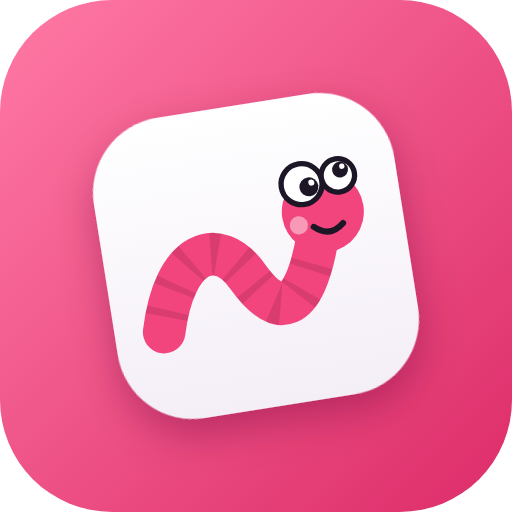
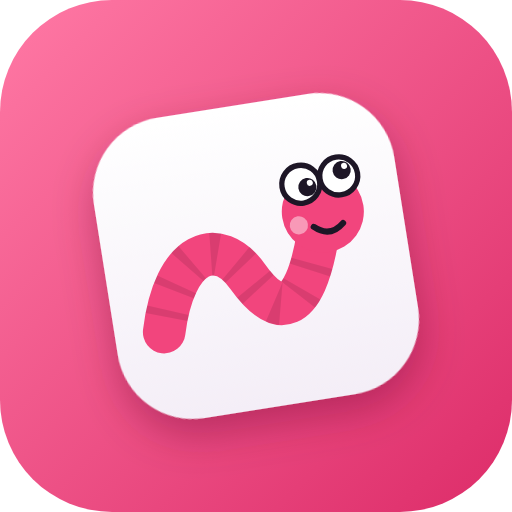
Oogjes van de pier even groot
Claude-Session: https://claude.ai/code/session_017q2Yrn6fteMth8g2hT6pfK

Changed region(s): [[0.5312, 0.2812, 0.7188, 0.4062]]

diff --git a/index.html b/index.html
@@ -569,10 +569,10 @@ function wormArt(pink,ink){
   `<path d="${body}" fill="none" stroke="#000" stroke-opacity=".1" stroke-width="5.6" stroke-dasharray="0.9 2.7" stroke-dashoffset="-2"/>`+
   `<circle cx="29.6" cy="15.6" r="5.4" fill="${pink}"/>`+
   `<circle cx="26.2" cy="16.9" r="1.2" fill="#fff" fill-opacity=".45"/>`+
-  `<circle cx="27.4" cy="11.6" r="2.7" fill="#fff" stroke="${ink}" stroke-width=".7"/>`+
-  `<circle cx="32.3" cy="11.2" r="2.2" fill="#fff" stroke="${ink}" stroke-width=".7"/>`+
-  `<circle cx="28.3" cy="12.1" r="1.25" fill="${ink}"/><circle cx="32.7" cy="10.5" r="1.05" fill="${ink}"/>`+
-  `<circle cx="28.7" cy="11.6" r=".4" fill="#fff"/><circle cx="33" cy="10.1" r=".35" fill="#fff"/>`+
+  `<circle cx="27.3" cy="11.6" r="2.5" fill="#fff" stroke="${ink}" stroke-width=".7"/>`+
+  `<circle cx="32.4" cy="11.3" r="2.5" fill="#fff" stroke="${ink}" stroke-width=".7"/>`+
+  `<circle cx="28.1" cy="12.1" r="1.2" fill="${ink}"/><circle cx="32.9" cy="10.6" r="1.2" fill="${ink}"/>`+
+  `<circle cx="28.5" cy="11.6" r=".4" fill="#fff"/><circle cx="33.3" cy="10.1" r=".4" fill="#fff"/>`+
   `<path d="M28.1 17.4 q 1.9 1.8 3.9 .1" fill="none" stroke="${ink}" stroke-width=".8" stroke-linecap="round"/>`;
 }
 const WORM_FACE=wormArt('var(--pink)','var(--pip)');

diff --git a/sw.js b/sw.js
@@ -1,5 +1,5 @@
 // Pierenworp service worker. Verhoog CACHE bij elke nieuwe versie.
-const CACHE='pierenworp-v10';
+const CACHE='pierenworp-v11';
 const ASSETS=['./','index.html','manifest.webmanifest','icon-192.png','icon-512.png','icon-maskable-512.png','apple-touch-icon.png'];
 
 // Nieuwe versie downloaden, maar wachten tot de speler op 'Vernieuwen' tikt.

diff --git a/README.md b/README.md
@@ -40,6 +40,6 @@ Open daarna http://localhost:8000 in je browser.
 
 ## Een nieuwe versie uitrollen
 
-Verhoog in `sw.js` het versienummer, bijvoorbeeld van `pierenworp-v10` naar `pierenworp-v11`, en zet de bestanden op GitHub.
+Verhoog in `sw.js` het versienummer, bijvoorbeeld van `pierenworp-v11` naar `pierenworp-v12`, en zet de bestanden op GitHub.
 
 Wie de app open heeft, krijgt dan bovenin de melding *Er is een nieuwe versie van Pierenworp*. Een tik op **Vernieuwen** laadt de nieuwe versie meteen; een lopend spel blijft bewaard. De app zoekt naar updates bij het openen en elk half uur.
